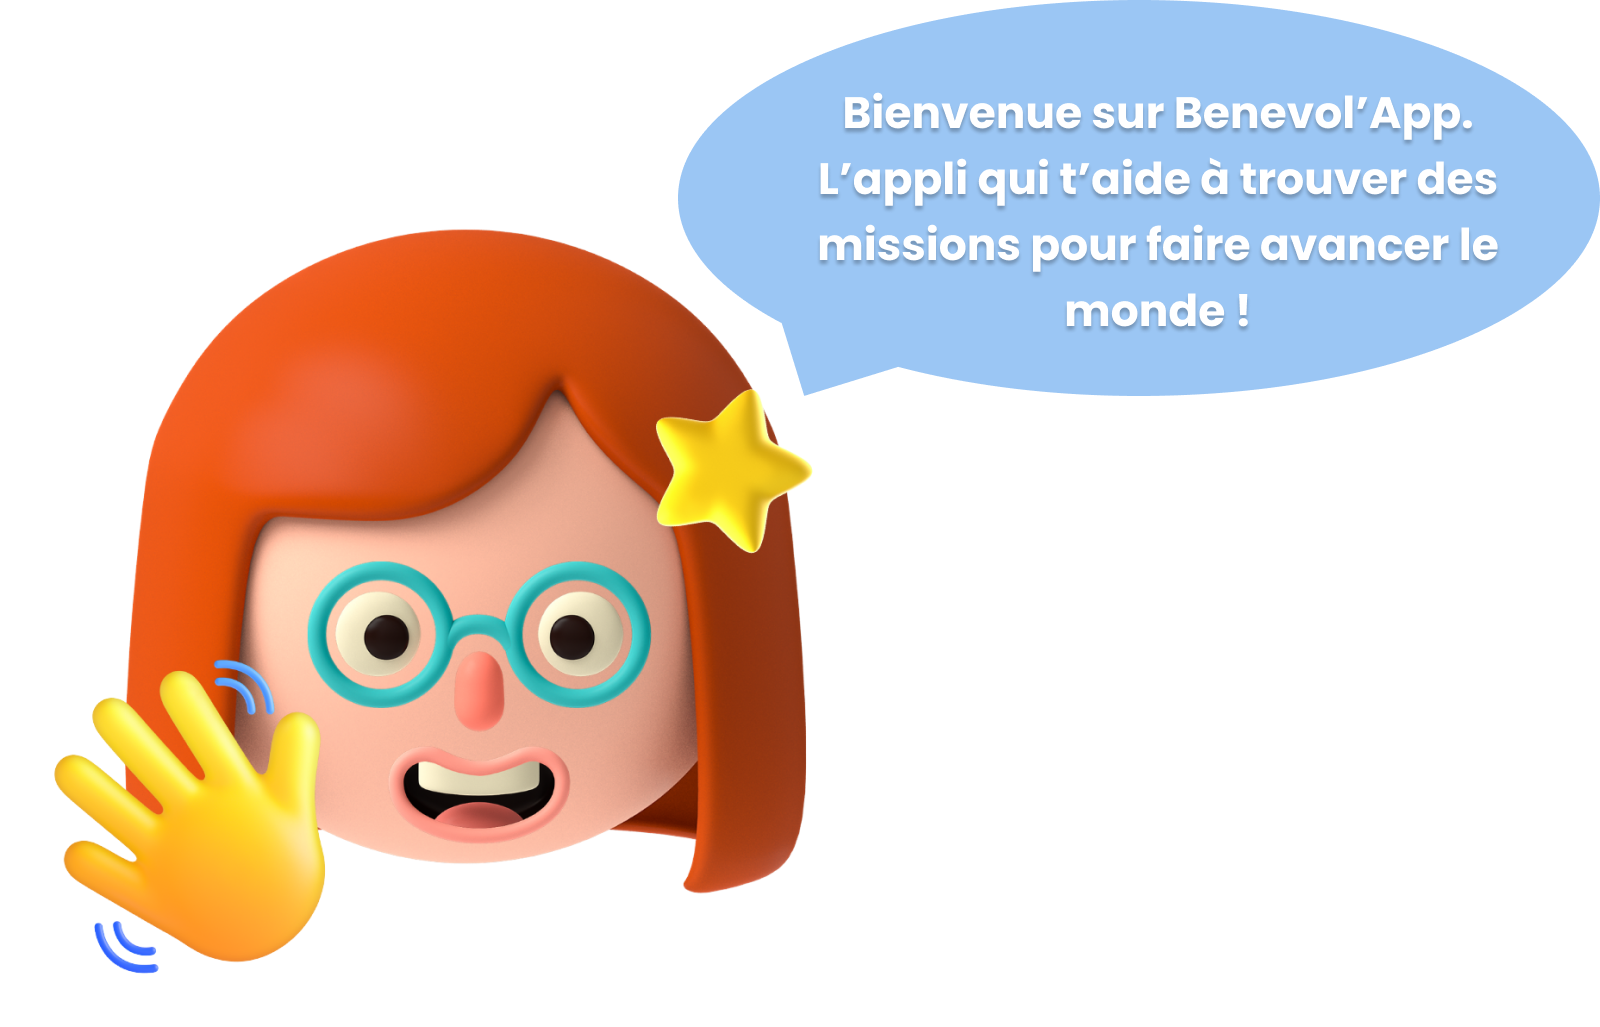
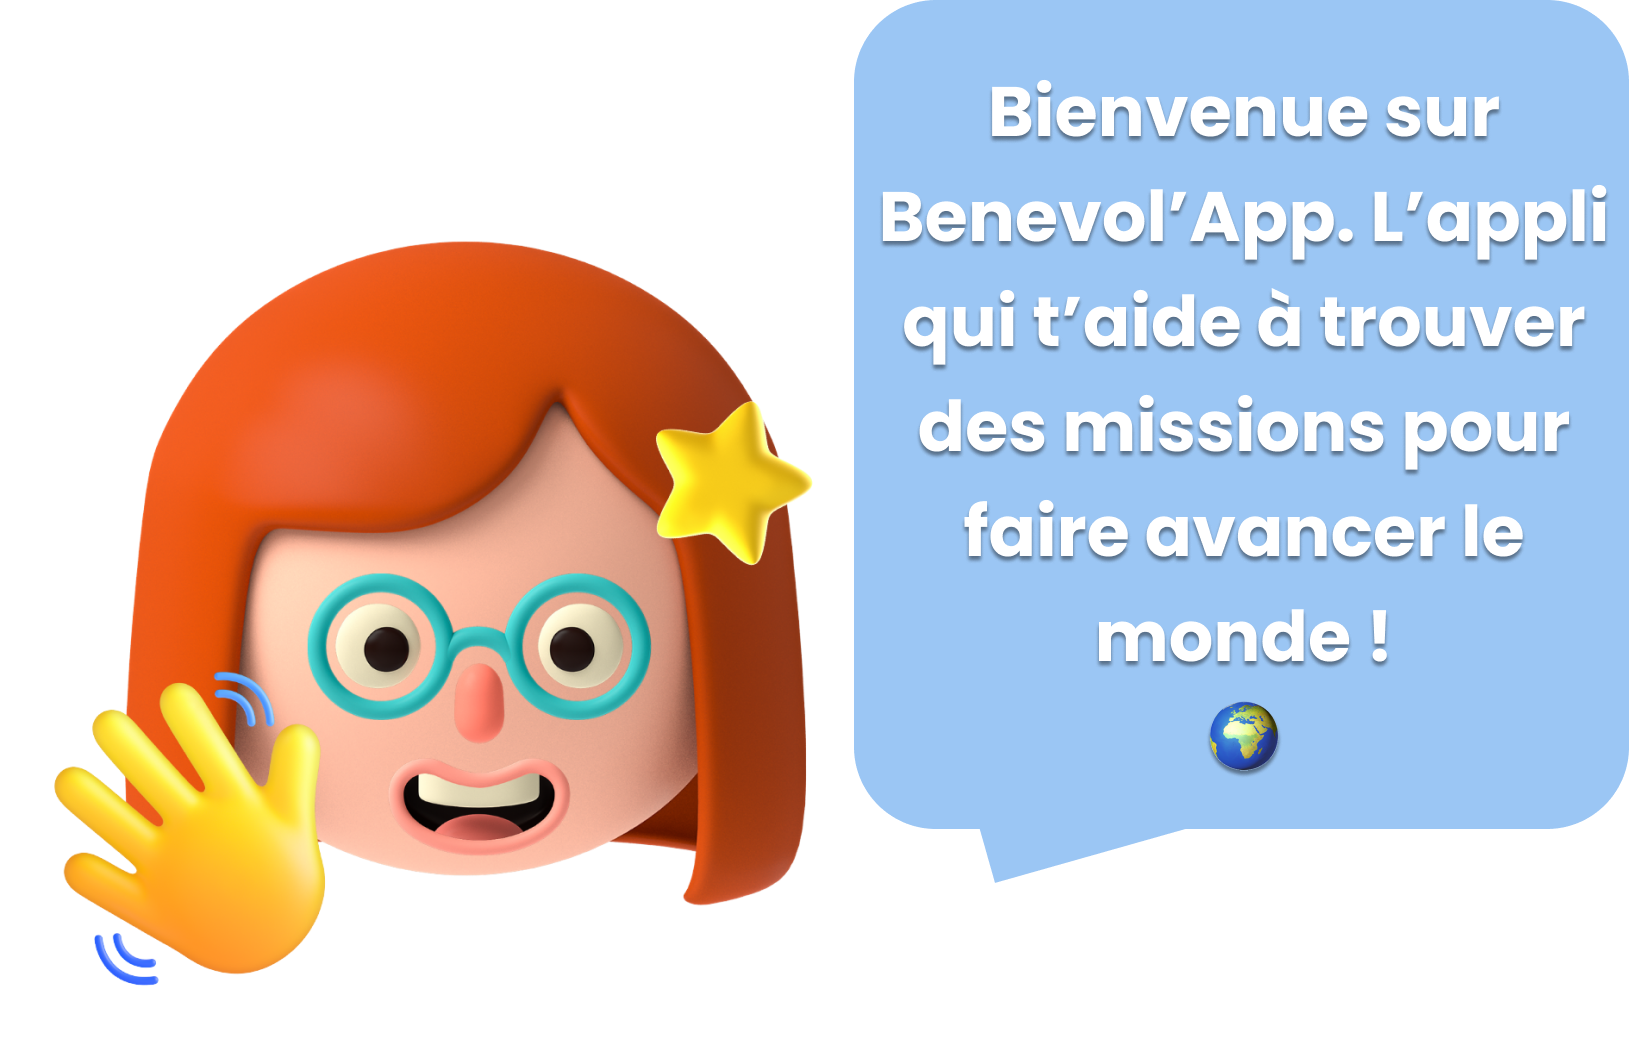
css

diff --git a/app/assets/stylesheets/pages/_show.scss b/app/assets/stylesheets/pages/_show.scss
@@ -11,9 +11,8 @@
   }
 
 .chat{
-  text-align: justify;
+  text-align: center;
   margin-top: 20px ;
-  margin-left: 65px;
 }
 
 .pclass {
@@ -44,11 +43,12 @@ margin-right: 25px;
 
 .submit-button {
   text-align: justify;
-  margin-top: 20px ;
+  margin-top: 40px ;
   margin-left: 150px;
   border-radius: 5px;
   font-weight: bold ;
   background-color: #9BC6F4;
+  box-shadow: 0 2px 4px rgba(0, 0, 0, 0.2);
   }
 
 .tictac-button {
@@ -61,7 +61,7 @@ margin-right: 30px;
 }
 
 .description-togglable-text.half-visible {
-  height: 50px;
+  height: 90px;
 }
 .description-togglable-text:not(half-visible) {
   height: 180px;
@@ -74,10 +74,15 @@ margin-right: 30px;
 .petit_bouton{
   text-align: center;
   margin-top: 10px ;
-  margin-left: 160px;
+  margin-left: 140px;
   border-radius: 5px;
   font-weight: bold ;
-  color: white;
-  background-color: #9BC6F4;
+  color: black;
+  background-color: #c2c1c1;
   width: 140px;
+}
+
+.image-class {
+  margin-left: 295px;
+  margin-top: 20px;
 }

diff --git a/db/seeds.rb b/db/seeds.rb
@@ -45,52 +45,52 @@ asso3.save
 puts "creating missions"
 
 filemission1 = URI.open("https://res.cloudinary.com/dkx9xgzon/image/upload/v1687860070/chien-cage-refuge-spa-full-12643903_sdmz94.jpg")
-mission1 = Mission.new(asso: asso1, date_création: "12/02/2023", nom: "aide au refuge SPA", temps: "2", description: "Venez aider un refuge
+mission1 = Mission.new(asso: asso1, date_création: "12/02/2023", nom: "Aide au refuge SPA", temps: "2", description: "Venez aider un refuge
   dans ces actions du quotidien,
   passez du temps avec les animaux dans le besoin !
   Vous pourrez pour le nettoyage des box, faire des jeux et balade
-  leur donner le bain, nourrir les animaux selon leurs besoins et enfin terminer par une petite séance caresse", localisation: "Quai de Rive Neuve, Marseille", date: "13/07/2023", photo_url: "photo", category: "animal", participants_max: 200, latitude: 43.2922484, longitude: 5.3649312  )
+  leur donner le bain, nourrir les animaux selon leurs besoins et enfin terminer par une petite séance caresse", localisation: "Quai de Rive Neuve, Marseille", date: "13/07/2023", photo_url: "photo", category: "Animal", participants_max: 200, latitude: 43.2922484, longitude: 5.3649312  )
 mission1.photo.attach(io: filemission1, filename: "spaasso", content_type: "image/png")
 mission1.save!
 
 filemission2 = URI.open("https://res.cloudinary.com/dkx9xgzon/image/upload/v1687860071/Duo-riverain_sdf-femme-trottoir-1_eqq7m1.jpg")
-mission2 = Mission.new(asso: asso2, date_création: "12/02/2023", nom: "distribution de nourriture", temps: "3", description: " En tant que bénévole, vous serez chargé(e)
+mission2 = Mission.new(asso: asso2, date_création: "12/02/2023", nom: "Distribution de nourriture", temps: "3", description: " En tant que bénévole, vous serez chargé(e)
 d'accueillir les bénéficiaires dans le centre d'accueil des Restos du Cœur et
 de les aider lors de la distribution alimentaire.Accueil chaleureux,enregistrement des bénéficiaires,
-aide à la distribution alimentaire,tri et rangement sont au programme.", localisation: "41 Rue Jobin, Marseille", date: "16/07/2023", photo_url: "photo", category: "social", participants_max: 250, latitude: 43.3094971, longitude: 5.3903643  )
+aide à la distribution alimentaire,tri et rangement sont au programme.", localisation: "41 Rue Jobin, Marseille", date: "16/07/2023", photo_url: "photo", category: "Social", participants_max: 250, latitude: 43.3094971, longitude: 5.3903643  )
 mission2.photo.attach(io: filemission2, filename: "foodasso", content_type: "image/png")
 mission2.save!
 
 filemission3 = URI.open("https://res.cloudinary.com/dkx9xgzon/image/upload/v1687860070/NETTOYAGES_DE_PLAGE_mwetj6.jpg")
-mission3 = Mission.new(asso: asso3, date_création: "12/02/2023", nom: "nettoyage plage", temps: "2", description: "En tant que bénévole au sein de
+mission3 = Mission.new(asso: asso3, date_création: "12/02/2023", nom: "Nettoyage de plage", temps: "2", description: "En tant que bénévole au sein de
   l'association CleanMyCalanques, vous pouvez contribuer activement à la
   préservation de ces magnifiques espaces naturels. Vous vous occuperez du netotyage des calanques,
-  de sensibiliser les passants et enfin une collecte et un tri des déchets", localisation: "Plages du Prado, Marseille", date: "10/07/2023", photo_url: "photo", category: "environnement", participants_max: 50, latitude: 43.25540542602539, longitude: 5.374680519104004  )
+  de sensibiliser les passants et enfin une collecte et un tri des déchets", localisation: "Plages du Prado, Marseille", date: "10/07/2023", photo_url: "photo", category: "Environnement", participants_max: 50, latitude: 43.25540542602539, longitude: 5.374680519104004  )
 mission3.photo.attach(io: filemission3, filename: "cleanasso", content_type: "image/png")
 mission3.save!
 
 filemission4 = URI.open("https://res.cloudinary.com/dkx9xgzon/image/upload/v1688043497/promenades-chiens_mee7a9.jpg")
-mission4 = Mission.new(asso: asso1, date_création: "10/06/2023", nom: "balade de chien", temps: "3", description: "En tant que bénévole, vous serez impliqué(e)
+mission4 = Mission.new(asso: asso1, date_création: "10/06/2023", nom: "Balade de chien", temps: "3", description: "En tant que bénévole, vous serez impliqué(e)
 dans des actions d'aide à la
 balade des chiens et de soins animaliers
-au sein de la SPA. Balade des chiens, soins, hygiène et sensibilisation à l'adoption sont au programme de cette mission. Venez les animaux n'attendent que vous!!", localisation: "32 Bd Jard. Zoologique, Marseille", date: "21/07/2023", photo_url: "photo", category: "animal", participants_max: 3, latitude:43.30558, longitude: 5.39744 )
+au sein de la SPA. Balade des chiens, soins, hygiène et sensibilisation à l'adoption sont au programme de cette mission. Venez les animaux n'attendent que vous!!", localisation: "32 Bd Jard. Zoologique, Marseille", date: "21/07/2023", photo_url: "photo", category: "Animal", participants_max: 3, latitude:43.30558, longitude: 5.39744 )
 mission4.photo.attach(io: filemission4, filename: "spaasso", content_type: "image/png")
 mission4.save!
 
 filemission5 = URI.open("https://res.cloudinary.com/dkx9xgzon/image/upload/v1688043743/t%C3%A9l%C3%A9chargement_28_qwuobl.jpg")
-mission5 = Mission.new(asso: asso2, date_création: "28/06/2023", nom: "aide aux sans abris", temps: "2", description: "En tant que bénévole, vous serez
+mission5 = Mission.new(asso: asso2, date_création: "28/06/2023", nom: "Aide aux sans abris", temps: "2", description: "En tant que bénévole, vous serez
   impliqué(e) dans des actions d'aide
 aux sans-abri et de distribution de repas au sein des Restaurants du Cœur. Accueil,écoute, préparation des repas et orientation vers les services
-d'aide sont au programme de cette mission. Venez nous avons besoin de vous!!", localisation: "Rue Gustave Desplaces, Aix-en-Provence", date: "01/08/2023", photo_url: "photo", category: "social", participants_max: 300, latitude: 43.3139137, longitude: 5.3822743  )
+d'aide sont au programme de cette mission. Venez nous avons besoin de vous!!", localisation: "Rue Gustave Desplaces, Aix-en-Provence", date: "01/08/2023", photo_url: "photo", category: "Social", participants_max: 300, latitude: 43.3139137, longitude: 5.3822743  )
 mission5.photo.attach(io: filemission5, filename: "foodasso", content_type: "image/png")
 mission5.save!
 
 filemission6 = URI.open("https://res.cloudinary.com/dkx9xgzon/image/upload/v1688043928/t%C3%A9l%C3%A9chargement_29_ab6wks.jpg")
-mission6 = Mission.new(asso: asso3, date_création: "29/06/2023", nom: "nettoyage de la ville", temps: "3", description: "En tant que bénévole, vous serez
+mission6 = Mission.new(asso: asso3, date_création: "29/06/2023", nom: "Nettoyage de la ville", temps: "3", description: "En tant que bénévole, vous serez
 impliqué(e) dans des activités
 de nettoyage urbain et de sensibilisation à la
 préservation de l'environnement en centre-ville. Nettoyage des espaces publics et organisation d'événements avec les
-collectivités locales seront au programme. ", localisation: "Rue Antoine Bourdelle, Marseille", date: "12/07/2023", photo_url: "photo", category: "environnement", participants_max: 200, latitude: 43.3196019 , longitude: 5.3700485 )
+collectivités locales seront au programme. ", localisation: "Rue Antoine Bourdelle, Marseille", date: "12/07/2023", photo_url: "photo", category: "Environnement", participants_max: 200, latitude: 43.3196019 , longitude: 5.3700485 )
 mission6.photo.attach(io: filemission6, filename: "cleanasso", content_type: "image/png")
 mission6.save!
 

diff --git a/db/migrate/2_create_missions.rb b/db/migrate/2_create_missions.rb
@@ -6,7 +6,7 @@ class CreateMissions < ActiveRecord::Migration[7.0]
       t.string :temps
       t.string :description
       t.string :localisation
-      t.date :date
+      t.string :date
       t.string :photo_url
       t.string :category
       t.references :asso, null: false, foreign_key: true

diff --git a/db/schema.rb b/db/schema.rb
@@ -75,7 +75,7 @@ ActiveRecord::Schema[7.0].define(version: 2023_07_03_102758) do
     t.string "temps"
     t.string "description"
     t.string "localisation"
-    t.date "date"
+    t.string "date"
     t.string "photo_url"
     t.string "category"
     t.bigint "asso_id", null: false
